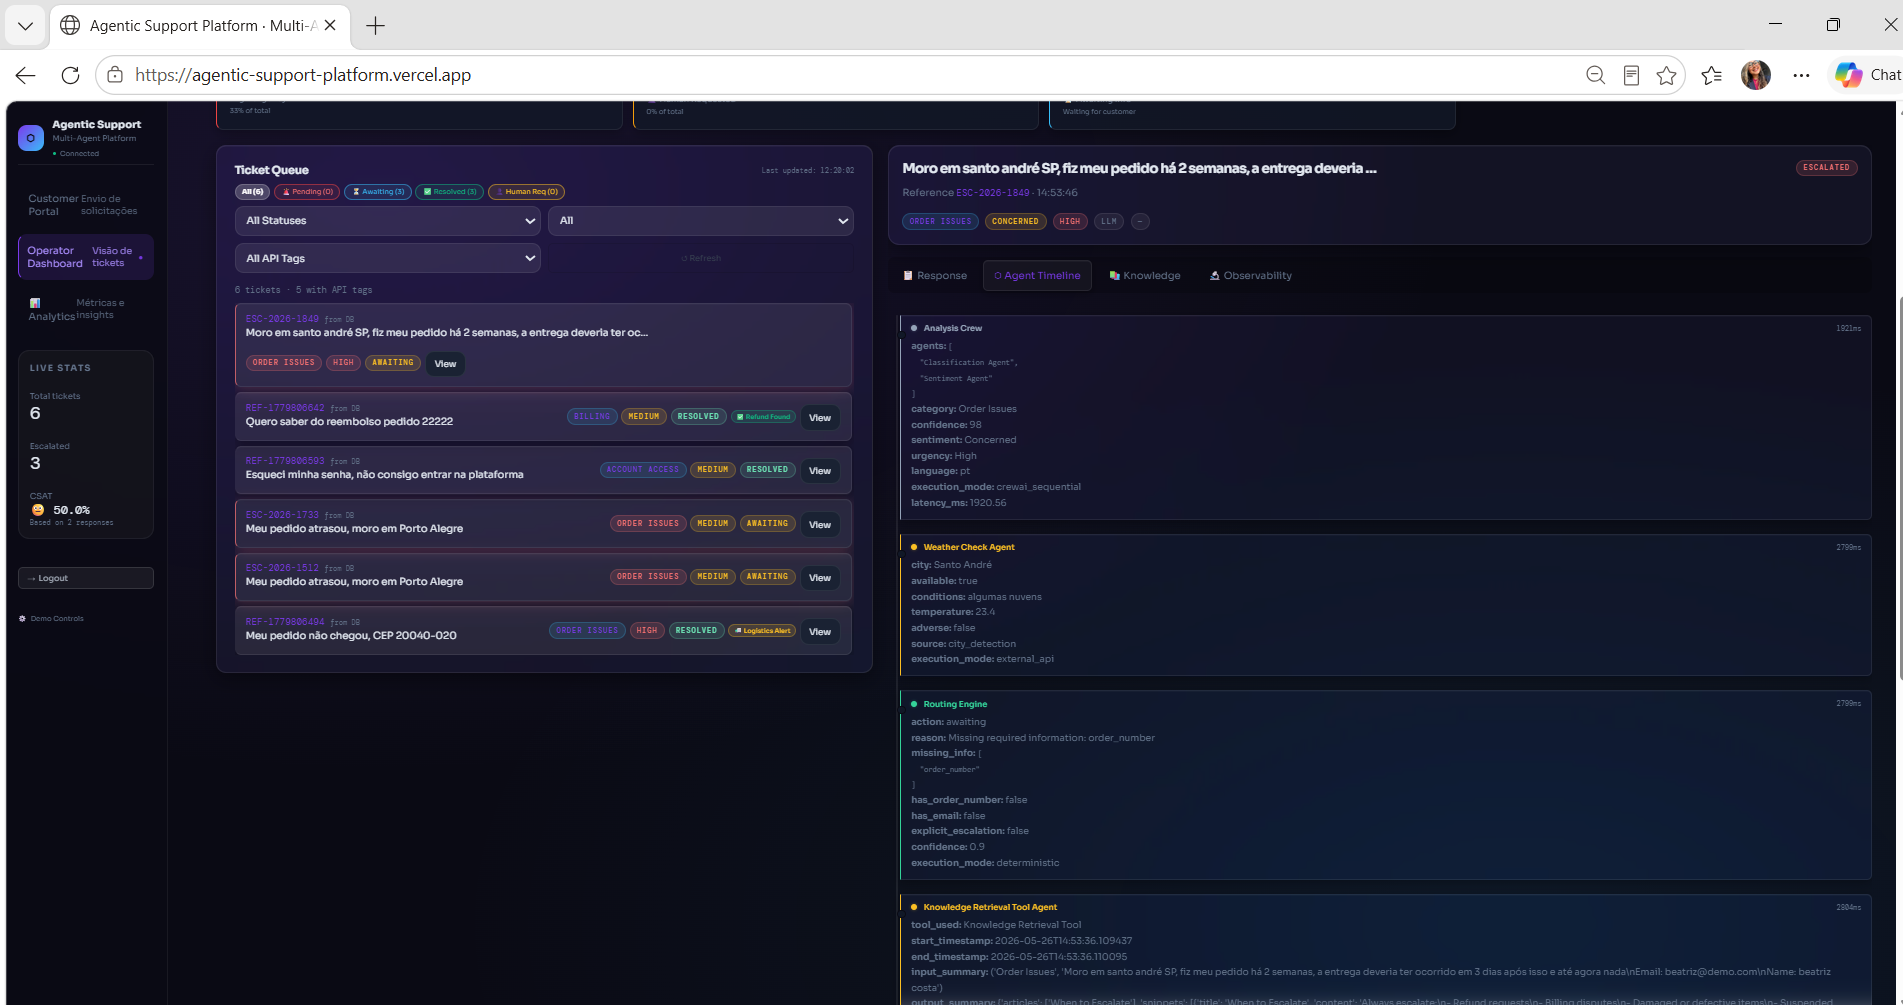
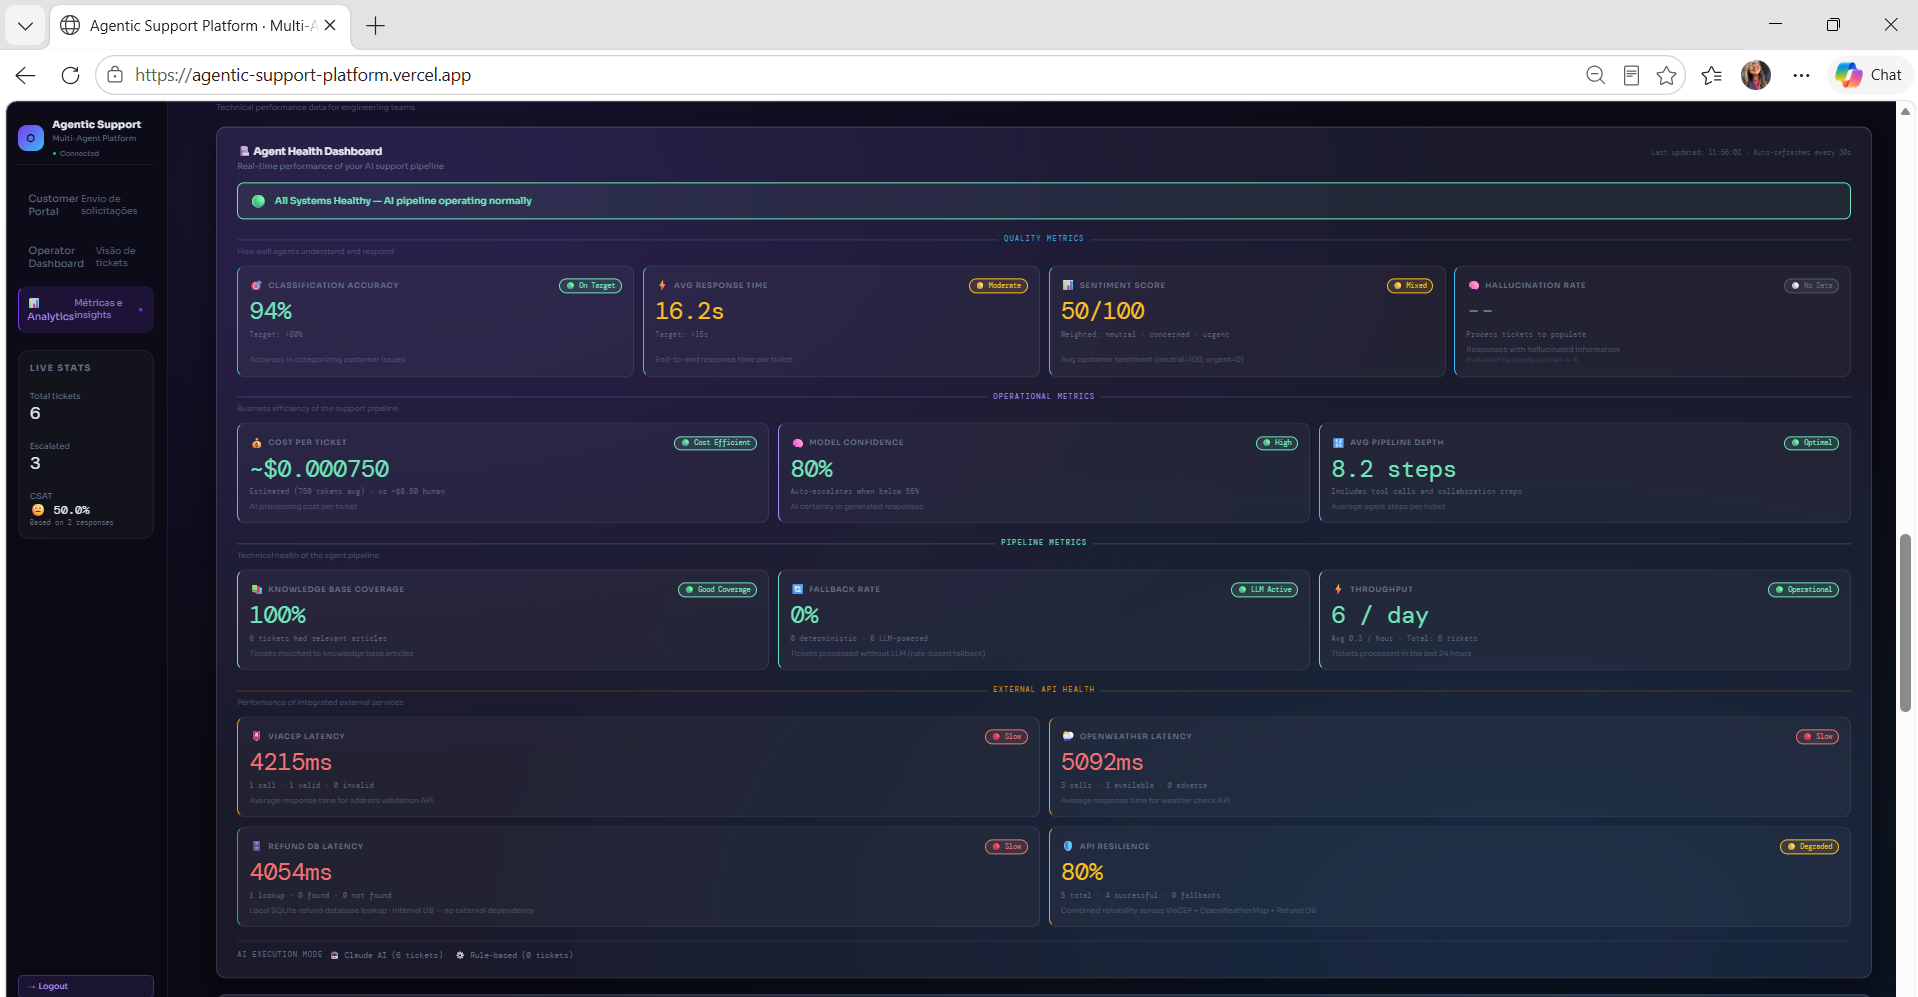
feat: add screenshots and YouTube demo video

diff --git a/projects/may26-agentic-support-platform-beatriz-costa/index.html b/projects/may26-agentic-support-platform-beatriz-costa/index.html
@@ -216,9 +216,28 @@
 
     <section>
       <h2>🎥 Demo Video</h2>
-      <p style="color:#6B7280;font-style:italic">
-        Demo video coming soon.
-      </p>
+      <div style="
+        position: relative;
+        padding-bottom: 56.25%;
+        height: 0;
+        overflow: hidden;
+        border-radius: 12px;
+        border: 1px solid #1f2937;
+        margin: 12px 0;
+      ">
+        <iframe
+          src="https://www.youtube.com/embed/lKVAJYt-vb8"
+          style="
+            position: absolute;
+            top: 0; left: 0;
+            width: 100%; height: 100%;
+            border: 0;
+            border-radius: 12px;
+          "
+          allowfullscreen
+          title="Agentic Support Platform Demo"
+        ></iframe>
+      </div>
     </section>
 
     <section>
